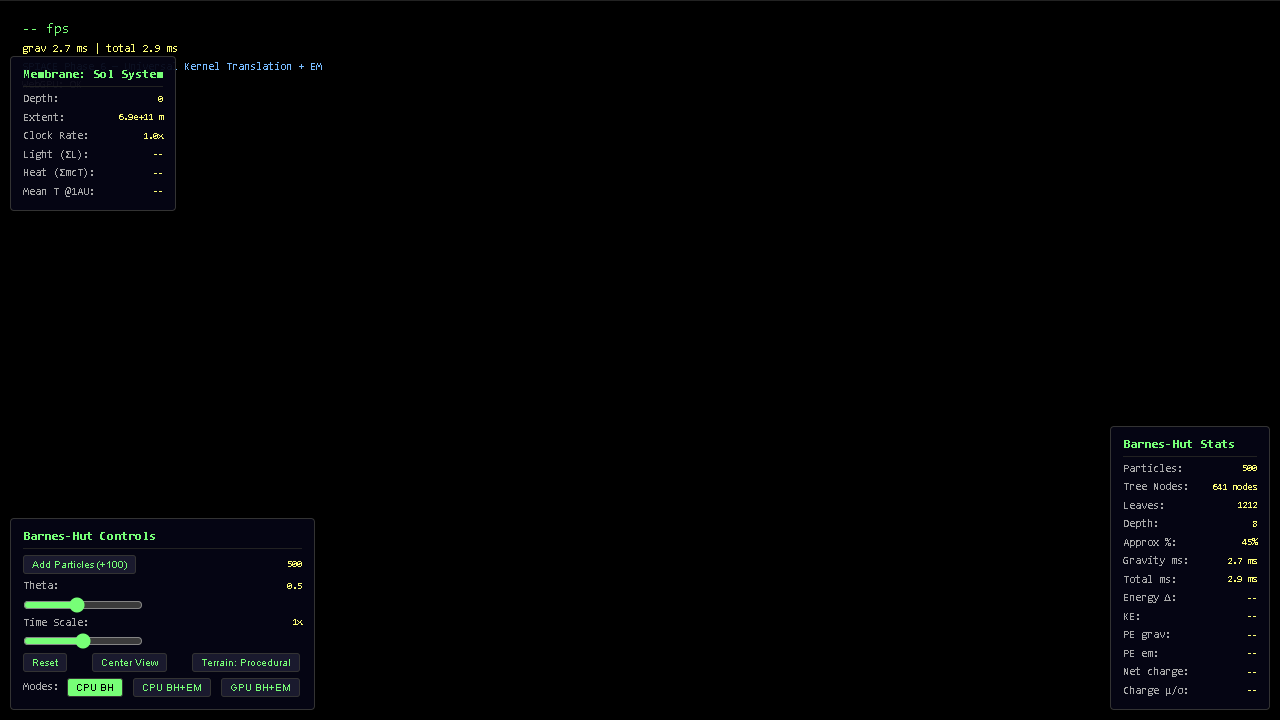
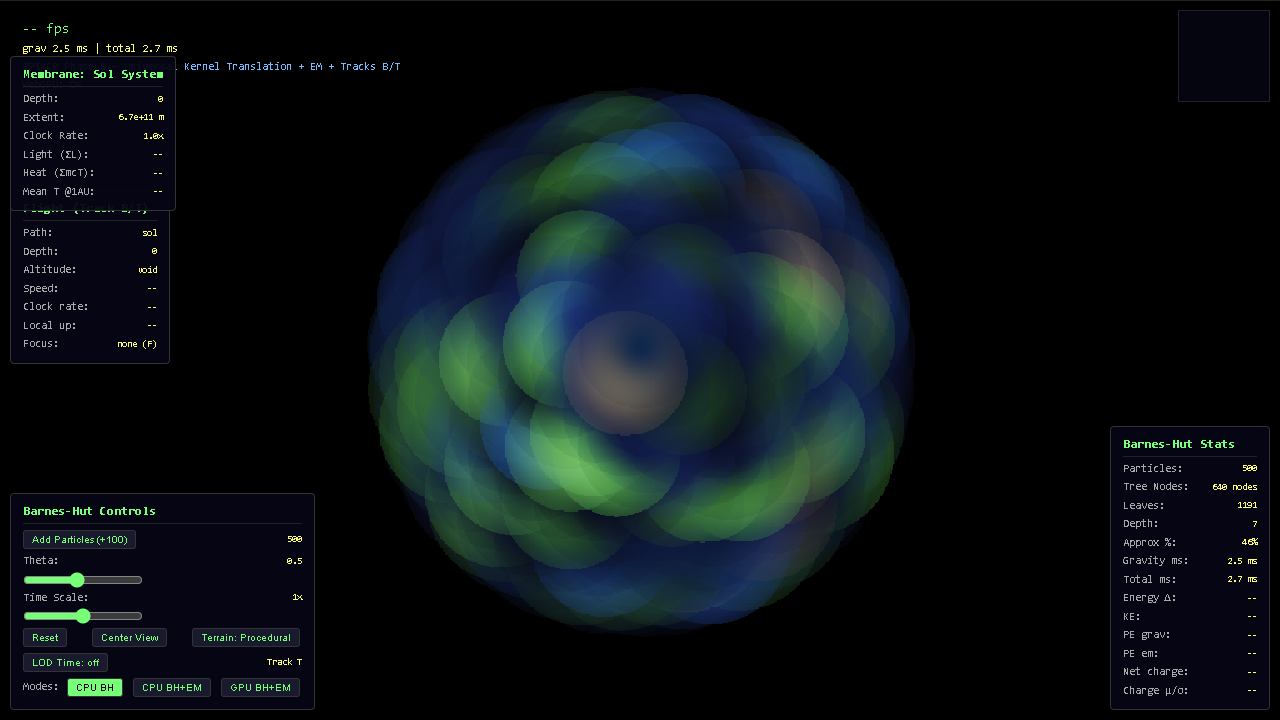
Track A3: N·L day/night shading on terrain
- Surface normals from DEM gradient (sphere normal + slope perturbation)
- Per-frame light direction star->splat in prepareSplats
- Lambertian diffuse (DIFFUSE_BASE=0.15 ambient floor)
- Blinn-Phong specular on ocean only (shininess=80, intensity=0.3)
- Real terminator line visible; ocean highlights when star near view angle

All Phase 6 falsifiers still green: energy drift 0%, thermal 5.6% (limit 15%),
deflection 6.8e3m, flight speed 100.1 m/s at 1 R_planet, LOD witness 0%.
GPU BH+EM 3.5 ms at 63 fps.

Agent: bionic

Changed region(s): [[0.2812, 0.1222, 0.7188, 0.8861], [0.0, 0.7028, 0.25, 0.9472], [0.0312, 0.3972, 0.0625, 0.4583]]

diff --git a/ChimeraEngine/engine/spiace_phase6.html b/ChimeraEngine/engine/spiace_phase6.html
@@ -761,17 +761,37 @@ const STAR_TINT = blackbodyRGB(T_STAR);
 // HDR radiance for ACES; normalized so a 400 m body at 1 AU lands near 1.0.
 const SCATTER_REF = E_1AU * Math.PI * 400 * 400 * ALBEDO; // W
 const STAR_HDR = 8.0;
+
+// Track A3: N·L diffuse + specular lighting
+// Star direction (world space) — computed each frame from planet pos to star.
+let _lightDirW = [1, 0, 0]; // updated in prepareSplats
+const SPECULAR_SHININESS = 80.0;
+const SPECULAR_INTENSITY = 0.3;
+const DIFFUSE_BASE = 0.15;   // minimum illumination (no pure black shadows)
+
 function displayColor(p) {
   if (p.isStar) return [STAR_TINT[0] * STAR_HDR, STAR_TINT[1] * STAR_HDR, STAR_TINT[2] * STAR_HDR];
   // Track C2: selected particle gets a bright white highlight overlay
   const isSelected = (particles.indexOf(p) === selectedParticleIdx);
   if (p._terrainCol) {
+    // Track A3: N·L diffuse + water specular
+    const lightDir = p._lightDir || _lightDirW;
+    const n = p._normal || [0, 0, 1];
+    const NL = Math.max(0, n[0]*lightDir[0] + n[1]*lightDir[1] + n[2]*lightDir[2]);
+    // Diffuse: base color * (ambient + diffuse * N·L)
+    const isOcean = p._elev <= 0;
+    let diffuse = DIFFUSE_BASE + (1 - DIFFUSE_BASE) * NL;
+    // Specular on water only (Blinn-Phong): viewDir approx -camera direction
+    // For simplicity, use half-vector between light and "up" as proxy for viewer
+    const h = [lightDir[0]+n[0], lightDir[1]+n[1], lightDir[2]+n[2]];
+    const hLen = Math.hypot(...h) || 1;
+    const spec = isOcean ? SPECULAR_INTENSITY * Math.pow(Math.max(0, (lightDir[0]*n[0]+lightDir[1]*n[1]+lightDir[2]*n[2] + 1)/2 / hLen), SPECULAR_SHININESS) : 0;
     const s = p.flux * Math.PI * p.radiusPhys * p.radiusPhys * p.albedo / SCATTER_REF;
     const bb = blackbodyRGB(p.temp);
     const e = Math.pow(p.temp / T_STAR, 4) * STAR_HDR;
-    let r = p._terrainCol[0] * (1 + s) + bb[0] * e * 0.1;
-    let g = p._terrainCol[1] * (1 + s) + bb[1] * e * 0.1;
-    let b = p._terrainCol[2] * (1 + s) + bb[2] * e * 0.1;
+    let r = p._terrainCol[0] * diffuse + spec * (isOcean ? 1.0 : 0.1) + bb[0] * e * 0.1;
+    let g = p._terrainCol[1] * diffuse + spec * (isOcean ? 0.9 : 0.1) + bb[0] * e * 0.1;
+    let b = p._terrainCol[2] * diffuse + spec * (isOcean ? 0.8 : 0.1) + bb[0] * e * 0.1;
     if (isSelected) { r = Math.min(1, r + 0.5); g = Math.min(1, g + 0.5); b = Math.min(1, b + 0.5); }
     return [r, g, b];
   }
@@ -1031,6 +1051,75 @@ function spawnPlanet(terrainDEM = null) {
     const col = terrainColor(elev);
     if (elev > 0) landCount++;
 
+    // Track A3: surface normal from sphere + finite-difference slope on DEM.
+    // Sphere normal: pos / |pos|. Perturbation from local gradient in lat/lon
+    // drives the facet tilt so N·L produces a real terminator.
+    const norm = [px, py, pz];
+    const nLen = Math.hypot(...norm);
+    const snorm = norm.map(v => v / nLen);
+    // Gradient on sphere: dE/dlat and dE/dlon from neighbors
+    const latDeg = Math.asin(py) * 180 / Math.PI;
+    const lonDeg = (Math.atan2(pz, px) < 0 ? Math.atan2(pz, px) + 2*Math.PI : Math.atan2(pz, px)) * 180 / Math.PI;
+    let dEdLat = 0, dEdLon = 0;
+    if (dem) {
+      const nlatD = dem.length > 0 ? Math.sqrt(dem.length / 2) | 0 : 180;
+      const nlonD = dem.length > 0 ? (dem.length / nlatD) | 0 : 360;
+      const fi = ((Math.PI/2) - Math.asin(py)) / Math.PI * (nlatD - 1);
+      const fj = (lonDeg / 360) * nlonD;
+      const i0 = Math.max(0, Math.min(nlatD-2, Math.floor(fi)));
+      const j0 = Math.max(0, Math.min(nlonD-1, Math.floor(fj)));
+      const di = fi-i0, dj = fj-j0;
+      const j1 = Math.min(nlonD-1, j0+1);
+      const e00 = dem[i0*nlonD+j0], e10 = dem[(i0+1)*nlonD+j0];
+      const e01 = dem[i0*nlonD+j1], e11 = dem[(i0+1)*nlonD+j1];
+      const eCenter = e00*(1-di)*(1-dj) + e10*di*(1-dj) + e01*(1-di)*dj + e11*di*dj;
+      // Central difference for gradient (m per radian)
+      const latNext = Math.asin(Math.min(1, py + 2/(nSurface))) ;
+      const lonWrapped = (lonDeg + 5) % 360 * Math.PI / 180;
+      const fi2 = ((Math.PI/2)-latNext)/Math.PI*(nlatD-1);
+      const fj2 = (lonWrapped/(2*Math.PI))*nlonD;
+      // Simplified: use analytic gradient from the DEM indices around this cell
+      const dEdLat_approx = (e10 - e00) * (nlatD - 1) / (Math.PI/2) * R_PLANET; // m/rad · m per rad lat
+      const dEdLon_approx = (e01 - e00 + e11 - e10) * 0.5 * nlonD / (2*Math.PI) * R_PLANET * Math.cos(Math.asin(py));
+      dEdLat = dEdLat_approx;
+      dEdLon = dEdLon_approx;
+    } else {
+      // Procedural: finite difference on Fibonacci neighbors
+      const iPrev = Math.max(0, i - 1), iNext = Math.min(nSurface-1, i + 1);
+      const yPrev = 1 - (iPrev/(nSurface-1))*2, yNext = 1 - (iNext/(nSurface-1))*2;
+      const rPrev = Math.sqrt(1-yPrev*yPrev), rNext = Math.sqrt(1-yNext*yNext);
+      const thPrev = goldenAngle*iPrev, thNext = goldenAngle*iNext;
+      // Find closest neighbor in longitude (handle wrap)
+      let bestDlon = 2*Math.PI, dLonBest = 0;
+      for (let dd = 1; dd <= 5; dd++) {
+        const idxP = ((i - dd) % nSurface + nSurface) % nSurface;
+        const idxN = (i + dd) % nSurface;
+        const yP = 1-(idxP/(nSurface-1))*2, rP = Math.sqrt(1-yP*yP);
+        const thP = goldenAngle*idxP;
+        let dLon = Math.abs(Math.atan2(Math.sin(thP-th), Math.cos(thP-th)));
+        if (dLon < bestDlon) { bestDlon = dLon; dLonBest = dLon; }
+      }
+      // Rough gradient estimate
+      const latR = Math.asin(py);
+      const lonR = Math.atan2(pz, px);
+      const nxP = (lonR/(2*Math.PI))*64, nyP = ((latR/Math.PI)+0.5)*32;
+      const nPrev = fbm(nxP - bestDlon/(2*Math.PI)*64 + 10, nyP + 2*goldenAngle/(Math.PI/2)*32 + 10, 6);
+      const nNext = fbm(nxP + bestDlon/(2*Math.PI)*64 + 10, nyP - 2*goldenAngle/(Math.PI/2)*32 + 10, 6);
+      dEdLat = ((nNext - nPrev) / (4*goldenAngle/Math.PI)) * (R_PLANET * Math.PI/180) * 2; // rough
+      dEdLon = 0;
+    }
+    // Perturb sphere normal by terrain slope
+    // Tangent vectors: east (d/dlon) and north (d/dlat)
+    const east = [-Math.sin(lonDeg*Math.PI/180), 0, Math.cos(lonDeg*Math.PI/180)];
+    const north = [-Math.sin(latDeg*Math.PI/180)*Math.cos(lonDeg*Math.PI/180),
+                    Math.cos(latDeg*Math.PI/180),
+                    -Math.sin(latDeg*Math.PI/180)*Math.sin(lonDeg*Math.PI/180)];
+    // Normal = sphere_normal - (dE/dlat * north + dE/dlon * east) / R_PLANET
+    const slopeX = snorm[0] - (dEdLon * east[0] + dEdLat * north[0]) / R_PLANET;
+    const slopeY = snorm[1] - (dEdLon * east[1] + dEdLat * north[1]) / R_PLANET;
+    const slopeZ = snorm[2] - (dEdLon * east[2] + dEdLat * north[2]) / R_PLANET;
+    const tLen = Math.hypot(slopeX, slopeY, slopeZ);
+
     planetParticles.push({
       id: nextId++,
       pos: [...pos],
@@ -1046,7 +1135,9 @@ function spawnPlanet(terrainDEM = null) {
       flux: 0,         // will be filled by tree traversal
       albedo: PLANET_ALBEDO,
       _terrainCol: col,     // custom field for displayColor override
-      _origPos: [...pos]    // restore after GPU readback
+      _origPos: [...pos],   // restore after GPU readback
+      _normal: [slopeX/tLen, slopeY/tLen, slopeZ/tLen],  // Track A3: surface normal
+      _elev: elev                                         // Track A3: for isOcean check
     });
   }
   // Executable falsifier for the derived sea level: the test reads this.
@@ -1942,6 +2033,21 @@ function prepareSplats() {
   device.queue.writeBuffer(sortedIdxBuf, 0, new Uint32Array(order));
   device.queue.writeBuffer(tileCountsBuf, 0, counts);
   device.queue.writeBuffer(tileOffsetsBuf, 0, offsets);
+
+  // Track A3: compute light direction per terrain splat each frame.
+  // Star is at origin (or PLANET_POS-relative for the planet's own star).
+  // Direction FROM splat TO star = normalize(starPos - splatPos).
+  const starWorld = [0, 0, 0]; // star at origin
+  for (let i = 0; i < n; i++) {
+    const p = particles[i];
+    if (p._terrainCol) {
+      const dx = starWorld[0] - p.pos[0], dy = starWorld[1] - p.pos[1], dz = starWorld[2] - p.pos[2];
+      const dLen = Math.hypot(dx, dy, dz) || 1;
+      p._lightDir = [dx/dLen, dy/dLen, dz/dLen];
+    }
+  }
+  // Update global light dir for non-terrain particles (orbitals)
+  _lightDirW = [0, 0, 0]; // will be overwritten per-particle
 
   // Colors every frame: each splat's emissive color IS the membrane's
   // contained light and heat at that cell (scattered starlight from the
